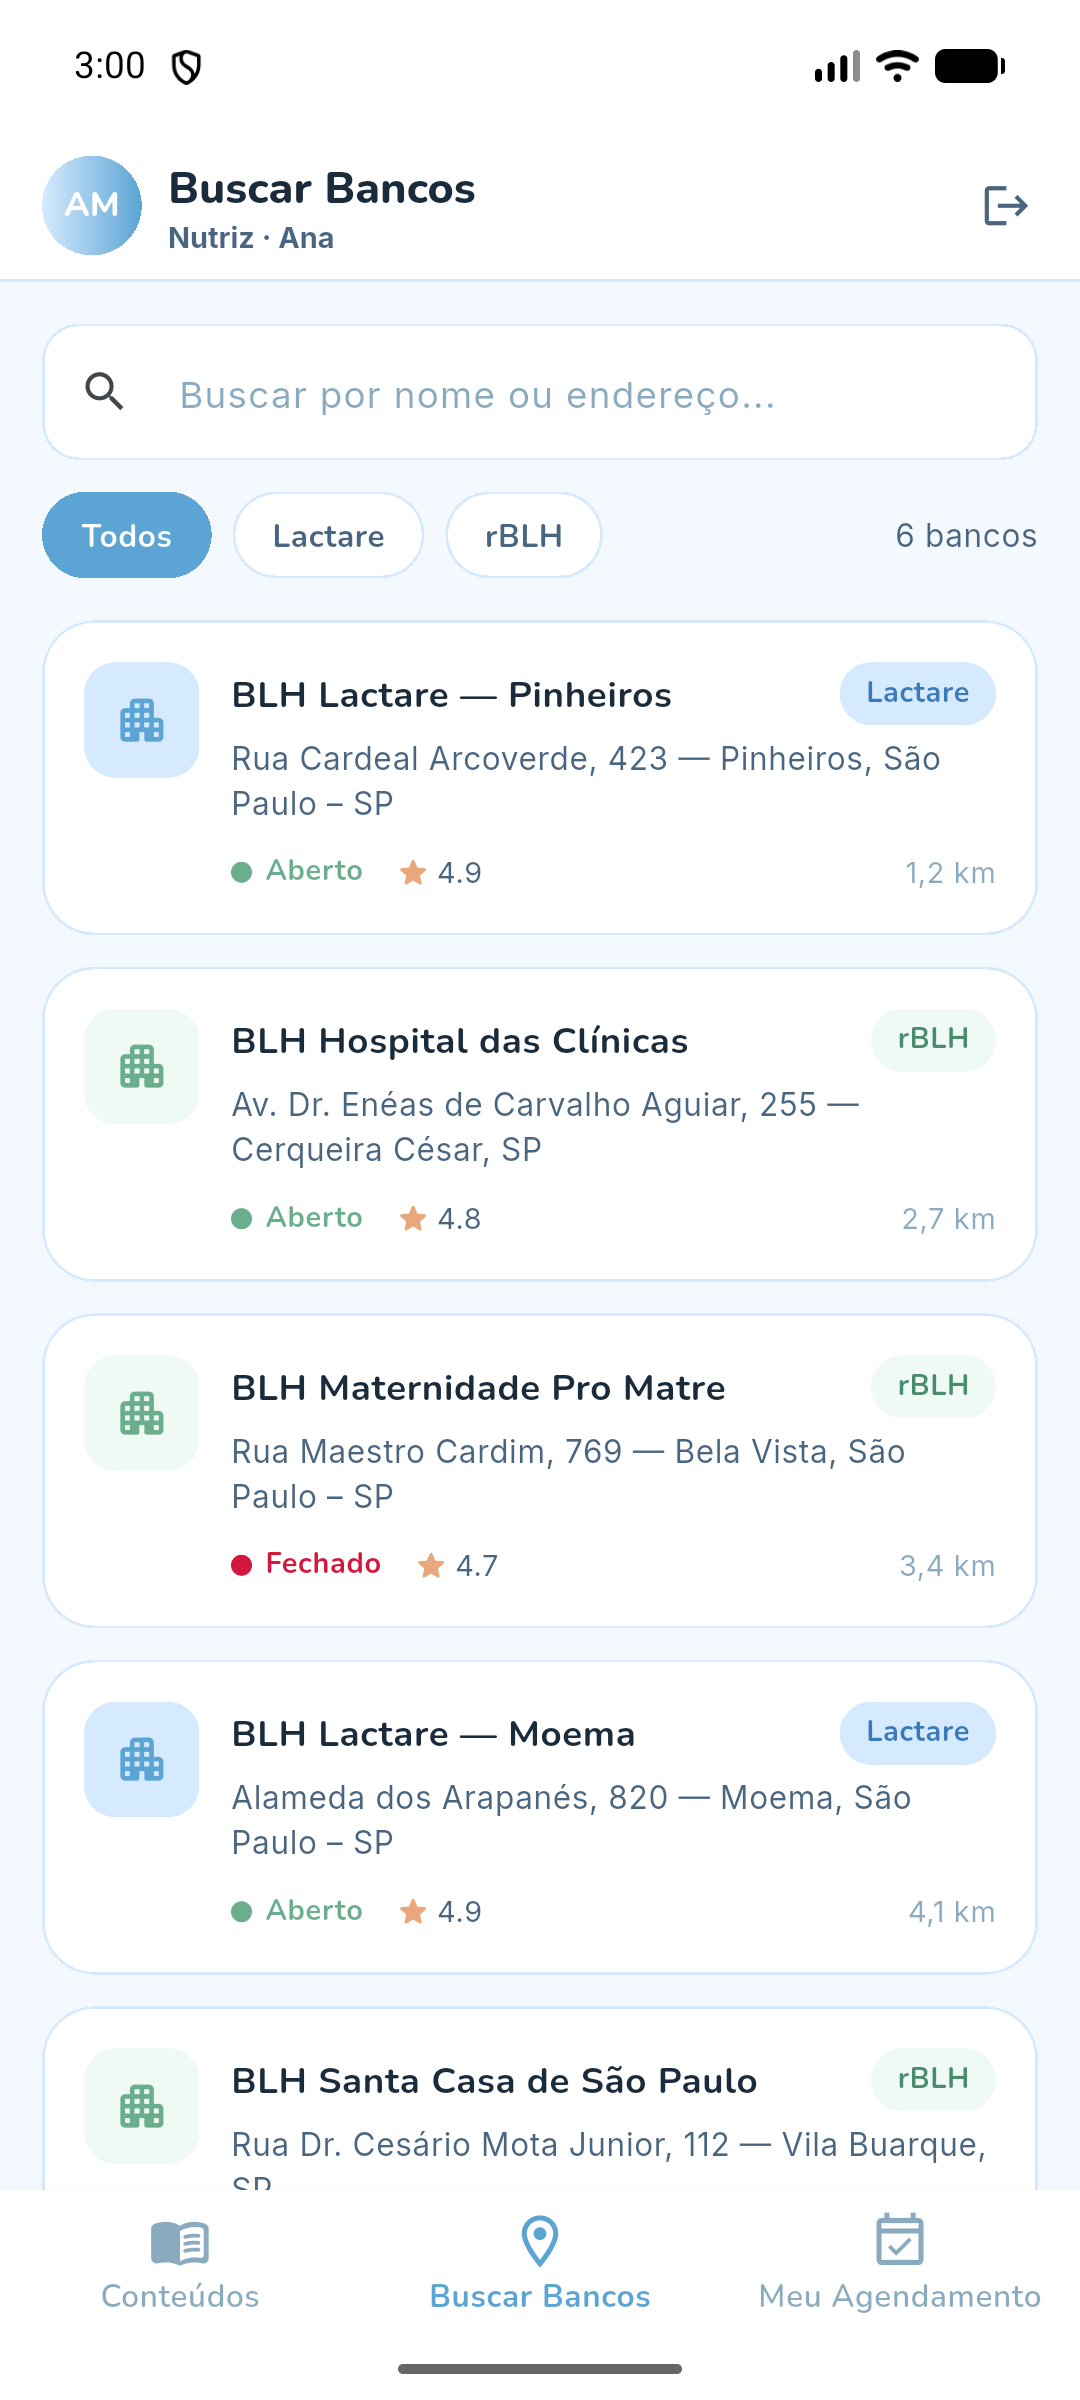
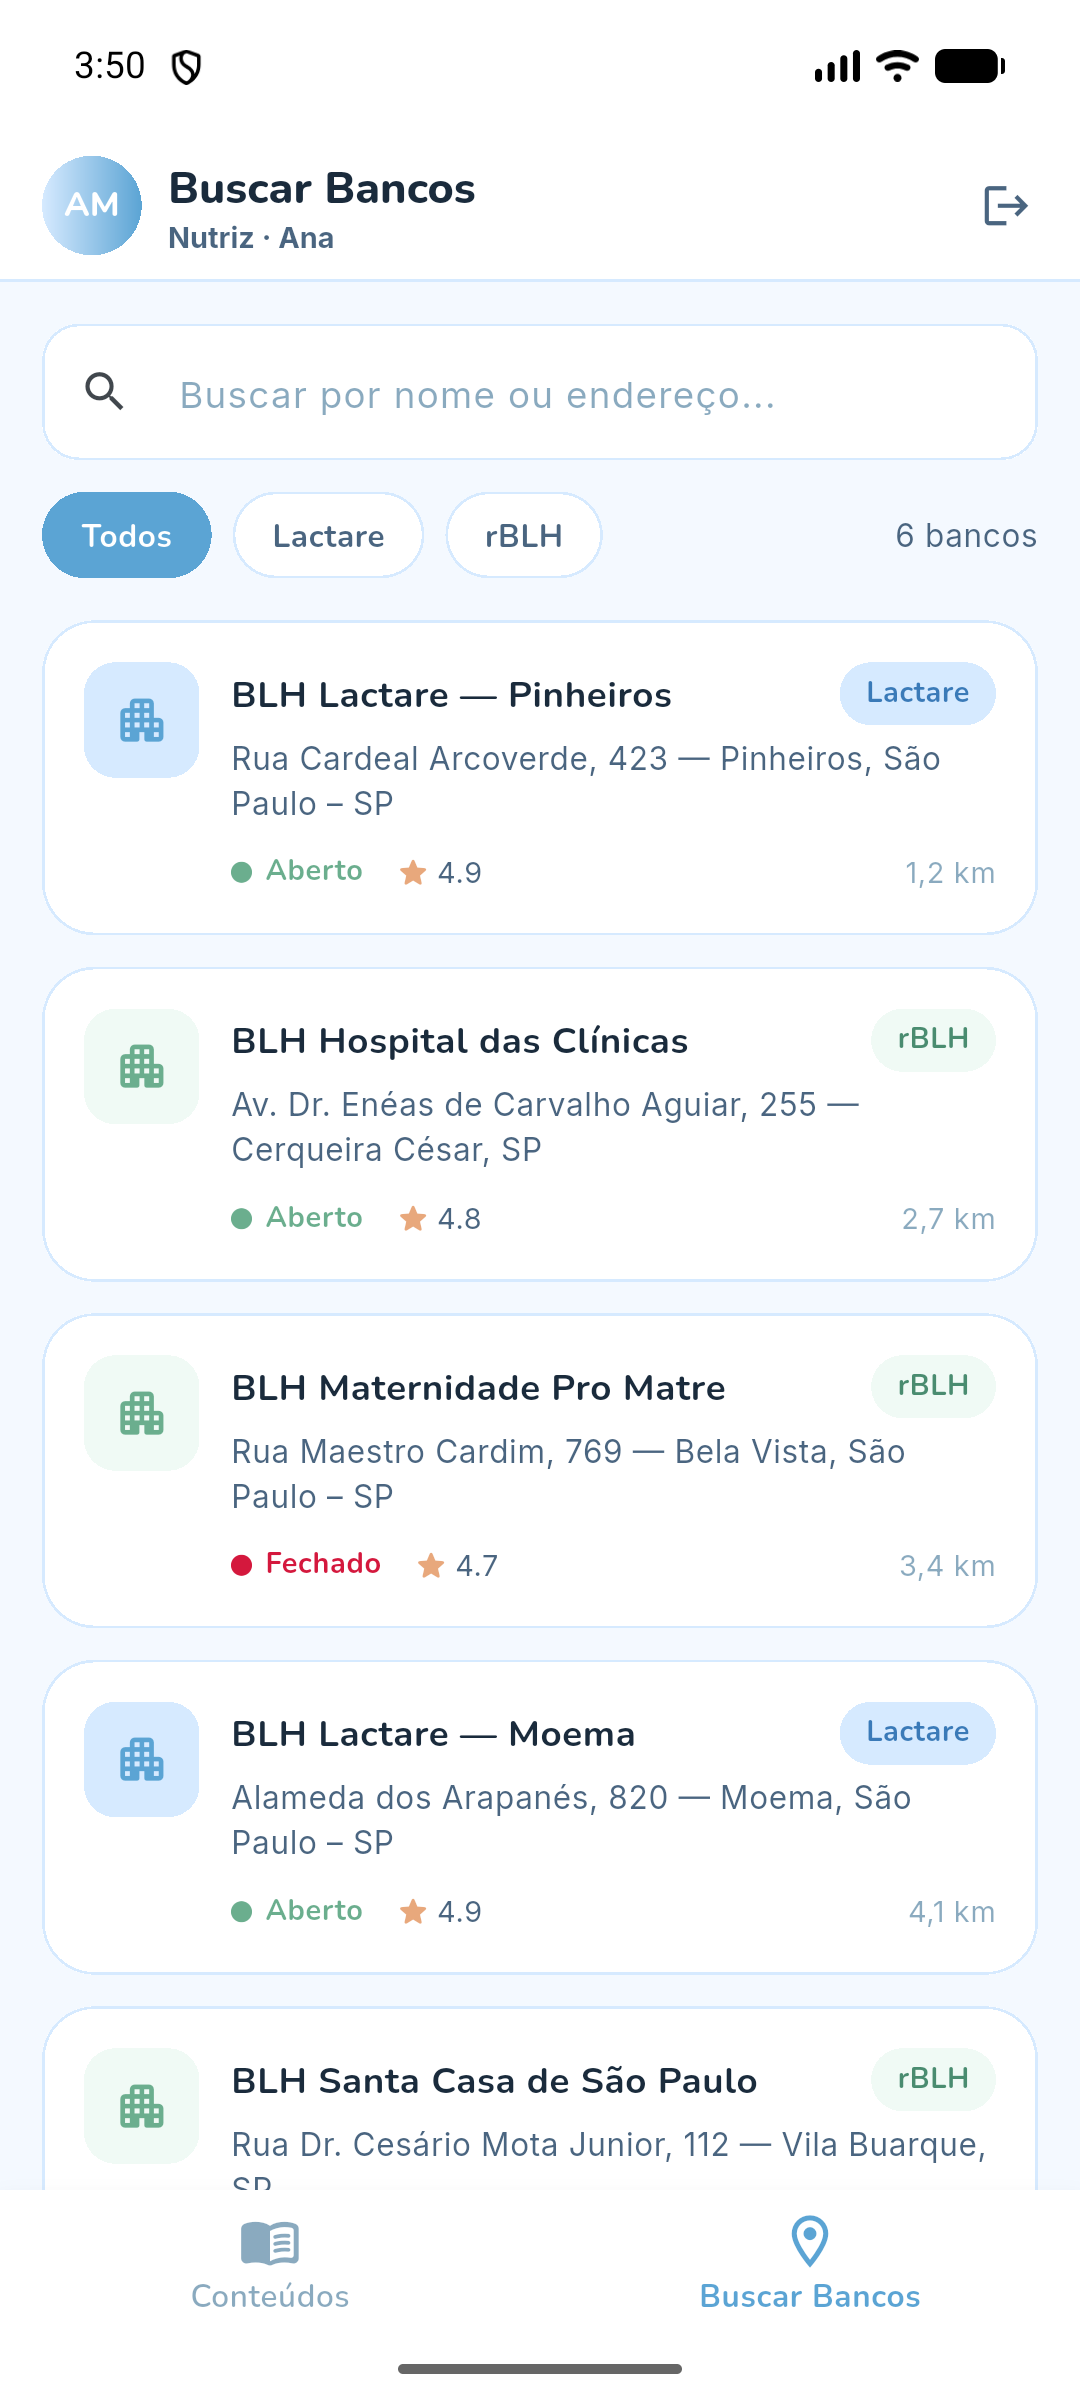
docs: atualiza README e prints (mapa, videoaula, novo dashboard) com imagens menores

Changed region(s): [[0.6417, 0.9062, 0.9167, 0.9688], [0.1222, 0.9062, 0.3056, 0.9688], [0.3972, 0.9062, 0.5806, 0.9688]]

diff --git a/README.md b/README.md
@@ -28,13 +28,18 @@ de leite materno mais simples, segura e acolhedora.
 O NutriLink é o hub digital que aproxima as mães doadoras dos bancos de leite
 humano. Pelo app, a nutriz pode:
 
-- **Aprender** com conteúdos educativos sobre extração, armazenamento,
-  amamentação e doação;
-- **Encontrar** o banco de leite mais próximo e ver seus detalhes;
-- **Agendar** uma visita/coleta e **acompanhar** o status do agendamento.
+- **Aprender** com conteúdos educativos (textos + videoaulas) sobre extração,
+  armazenamento, amamentação e doação;
+- **Encontrar** o banco de leite mais próximo, ver seus detalhes num mapa e
+  **ligar** para agendar a visita.
 
 O app também possui um perfil **administrador**, com um **dashboard** de
 indicadores da rede — reforçando o controle de acesso por tipo de usuário.
+
+> **Por que o agendamento é por telefone?** Muitos bancos de leite do Brasil
+> atendem apenas por telefone fixo. Em vez de simular um ecossistema único de
+> agendamento, o app abre o **discador do celular** com o número do banco —
+> uma solução realista e coerente com o contexto.
 
 ---
 
@@ -51,8 +56,8 @@ O app abre na tela de login. Use uma das contas mockadas:
 
 | Perfil | E-mail | Senha | Acesso |
 |---|---|---|---|
-| **Nutriz** | `nutriz@nutrilink.com` | `123456` | Conteúdos, Buscar Bancos, Meu Agendamento |
-| **Administrador** | `adm@nutrilink.com` | `123456` | Todas as anteriores **+ Dashboard** |
+| **Nutriz** | `nutriz@nutrilink.com` | `123456` | Conteúdos, Buscar Bancos |
+| **Administrador** | `adm@nutrilink.com` | `123456` | Conteúdos, Buscar Bancos **+ Dashboard** |
 
 > Na própria tela de login há um atalho para preencher as credenciais.
 
@@ -60,82 +65,54 @@ O app abre na tela de login. Use uma das contas mockadas:
 
 ## 📱 Telas do aplicativo
 
-### 1. Splash
-Tela de abertura com a identidade visual do NutriLink, exibida por alguns
-instantes antes de encaminhar o usuário ao login.
+### 1. Splash e 2. Login
+Abertura com a identidade visual do NutriLink, seguida do login — que valida
+as credenciais mockadas e direciona o usuário conforme o perfil.
 
-![Splash](docs/screenshots/01_splash.png)
+<img src="docs/screenshots/01_splash.png" width="240"/> <img src="docs/screenshots/02_login.png" width="240"/>
 
-### 2. Login
-Porta de entrada e apresentação do app. Valida e-mail/senha contra as contas
-mockadas e direciona o usuário conforme o perfil (nutriz ou administrador).
+### 3. Conteúdos e 4. Detalhe do Conteúdo
+Espaço educativo com guias filtráveis por categoria. Cada guia tem texto e uma
+**videoaula** (representada por uma thumbnail mockada). O detalhe é aberto por
+**passagem de parâmetro**.
 
-![Login](docs/screenshots/02_login.png)
+<img src="docs/screenshots/03_contents.png" width="240"/> <img src="docs/screenshots/04_content_detail.png" width="240"/>
 
-### 3. Conteúdos
-Espaço educativo com guias e artigos, filtráveis por categoria (Extração,
-Armazenamento, Amamentação, Doação).
+### 5. Buscar Bancos e 6. Detalhe do Banco
+Listagem dos bancos com busca e filtro por rede (Lactare / rBLH). O detalhe —
+recebido por **passagem de parâmetro** — mostra um **mapa ilustrativo** com a
+localização, além de endereço, horário e telefone.
 
-![Conteúdos](docs/screenshots/03_contents.png)
+<img src="docs/screenshots/05_banks.png" width="240"/> <img src="docs/screenshots/06_bank_detail.png" width="240"/>
 
-### 4. Detalhe do Conteúdo
-Artigo completo, com o texto dividido em seções — recebe o conteúdo
-selecionado por **passagem de parâmetro**.
+### 7. Ligar para agendar
+Ao tocar em **"Ligar para agendar"**, o app abre o **discador do celular** com
+o telefone do banco selecionado.
 
-![Detalhe do Conteúdo](docs/screenshots/04_content_detail.png)
+<img src="docs/screenshots/07_bank_call.png" width="240"/>
 
-### 5. Buscar Bancos
-Listagem dos Bancos de Leite Humano com busca por nome/endereço e filtro por
-rede (Lactare / rBLH), mostrando status (aberto/fechado), avaliação e distância.
+### 8. Dashboard e 9. Origem dos acessos (somente administrador)
+Visão gerencial com **filtro de novos cadastros** por período (dia/semana/mês/
+ano), **total de nutrizes cadastradas**, **taxa de comprometimento**, **taxa de
+adesão** e um **gráfico** da origem dos acessos (WhatsApp, App, Web).
 
-![Buscar Bancos](docs/screenshots/05_banks.png)
-
-### 6. Detalhe do Banco
-Informações completas do banco selecionado (endereço, horário, telefone,
-distância) e botão para iniciar o agendamento — também via **passagem de
-parâmetro**.
-
-![Detalhe do Banco](docs/screenshots/06_bank_detail.png)
-
-### 7. Agendar Visita (formulário)
-Formulário para agendar a coleta: nome da doadora, data (date picker), horário
-e tipo de atendimento, com validações.
-
-![Formulário de Agendamento](docs/screenshots/07_appointment_form.png)
-
-### 8. Confirmação
-Retorno visual após o agendamento, com o resumo e o número de referência
-gerado.
-
-![Confirmação](docs/screenshots/08_confirmation.png)
-
-### 9. Meu Agendamento
-Lista os agendamentos da nutriz com seus status. Os agendamentos criados no
-formulário aparecem aqui automaticamente.
-
-![Meu Agendamento](docs/screenshots/09_my_appointment.png)
-
-### 10. Dashboard (administrador)
-Visão gerencial exclusiva do admin: indicadores da rede e lista de
-agendamentos recentes das nutrizes.
-
-![Dashboard](docs/screenshots/10_dashboard.png)
+<img src="docs/screenshots/08_dashboard.png" width="240"/> <img src="docs/screenshots/09_dashboard_chart.png" width="240"/>
 
 ---
 
 ## 🧭 Fluxo de navegação
 
 ```
-Splash → Login ─┬─ (nutriz) → [ Conteúdos | Buscar Bancos | Meu Agendamento ]
-                └─ (admin)  → [ Conteúdos | Buscar Bancos | Meu Agendamento | Dashboard ]
+Splash → Login ─┬─ (nutriz) → [ Conteúdos | Buscar Bancos ]
+                └─ (admin)  → [ Conteúdos | Buscar Bancos | Dashboard ]
 
-Buscar Bancos → Detalhe do Banco → Agendar Visita → Confirmação → Meu Agendamento
-Conteúdos → Detalhe do Conteúdo
+Buscar Bancos → Detalhe do Banco → "Ligar para agendar" (abre o discador)
+Conteúdos → Detalhe do Conteúdo (texto + videoaula)
 ```
 
 A navegação usa `Navigator` com `MaterialPageRoute` e **passagem de objetos por
-parâmetro** (ex.: o banco escolhido segue para as telas de detalhe e de
-agendamento).
+parâmetro** (ex.: o banco escolhido segue para a tela de detalhes; o artigo
+selecionado segue para o seu detalhe).
 
 ---
 
@@ -148,27 +125,25 @@ lib/
 ├── main.dart                  # ponto de entrada
 ├── app.dart                   # MaterialApp + tema + rota inicial
 ├── core/theme/                # cores e ThemeData (Material 3)
-├── models/                    # classes de dados (User, MilkBank, Appointment, ...)
-├── data/                      # dados mockados + AppointmentStore (estado em memória)
-├── widgets/                   # componentes reutilizáveis (botões, cards, badges)
+├── models/                    # classes de dados (User, MilkBank, ContentArticle, ...)
+├── data/                      # dados mockados (bancos, conteúdos, dashboard, usuários)
+├── widgets/                   # componentes reutilizáveis (cards, mapa mockado, gráfico, vídeo)
 └── screens/                   # telas, agrupadas por funcionalidade
     ├── splash/
     ├── login/
     ├── shell/                 # BottomNavigationBar por perfil
     ├── contents/
     ├── banks/
-    ├── appointment/
     └── dashboard/
 ```
 
-**Dados mockados** ficam concentrados em `lib/data/` (bancos, conteúdos,
-usuários, dashboard), modelados por classes em `lib/models/` — nada de dados
-espalhados diretamente nas telas.
+**Dados mockados** ficam concentrados em `lib/data/`, modelados por classes em
+`lib/models/` — nada de dados espalhados diretamente nas telas.
 
 **Tecnologias/conceitos:** Flutter, Material Design 3, `StatefulWidget` +
 `setState`, `TextEditingController`, `Form`/validação, `Navigator`,
-`ChangeNotifier` (para refletir novos agendamentos entre telas), fontes
-customizadas (Nunito/Inter).
+`CustomPainter` (mapa e gráfico donut mockados), `url_launcher` (abre o
+discador), fontes customizadas (Nunito/Inter).
 
 ---
 
